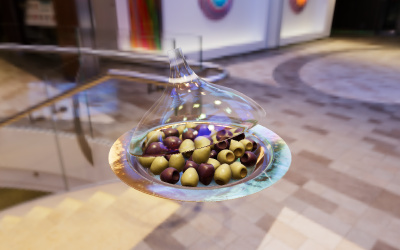
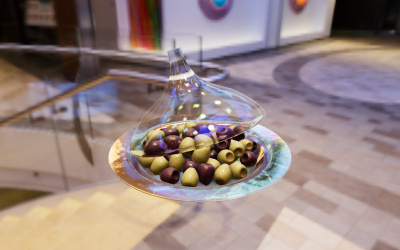
MeshPhysicalMaterial: Fix refraction shader code (#22224)
* MeshPhysicalMaterial: Fix refraction

* Update screenshot

diff --git a/src/renderers/shaders/ShaderChunk/transmission_fragment.glsl.js b/src/renderers/shaders/ShaderChunk/transmission_fragment.glsl.js
@@ -18,10 +18,11 @@ export default /* glsl */`
 
 	vec3 pos = vWorldPosition.xyz / vWorldPosition.w;
 	vec3 v = normalize( cameraPosition - pos );
+	vec3 n = inverseTransformDirection( normal, viewMatrix );
 	float ior = ( 1.0 + 0.4 * reflectivity ) / ( 1.0 - 0.4 * reflectivity );
 
 	vec3 transmission = transmissionFactor * getIBLVolumeRefraction(
-		normal, v, roughnessFactor, material.diffuseColor, material.specularColor,
+		n, v, roughnessFactor, material.diffuseColor, material.specularColor,
 		pos, modelMatrix, viewMatrix, projectionMatrix, ior, thicknessFactor,
 		attenuationTint, attenuationDistance );
 
